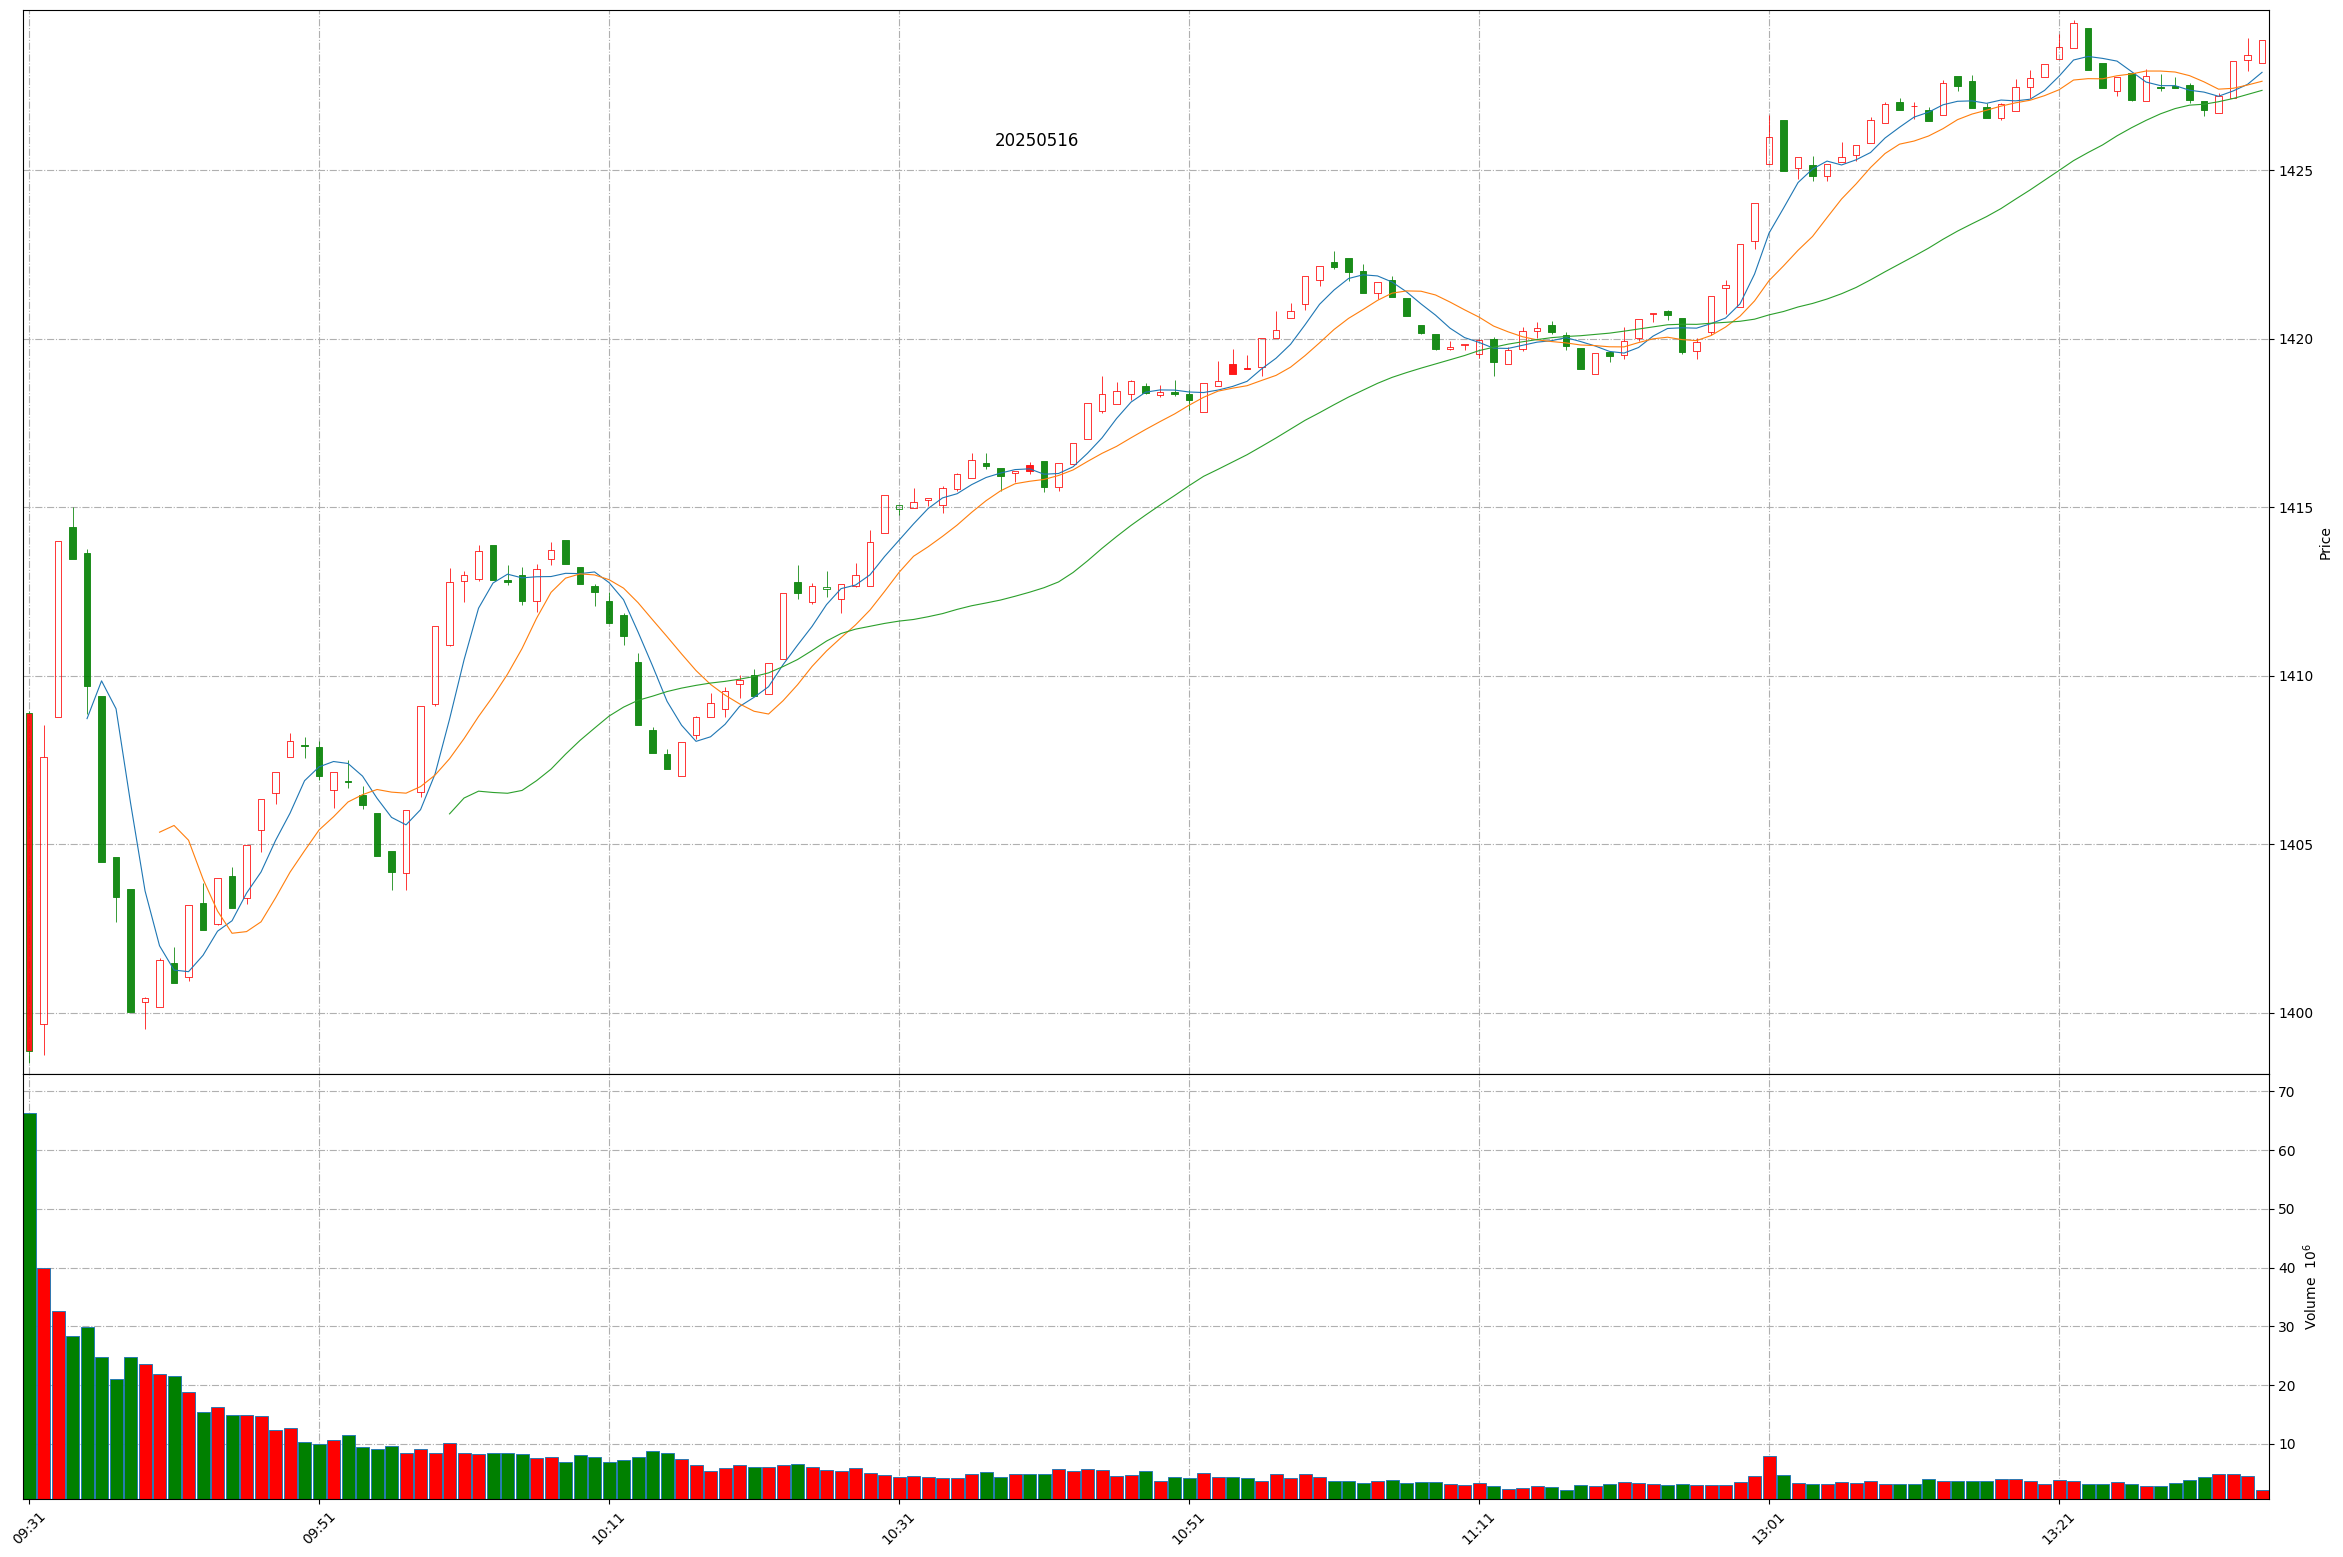
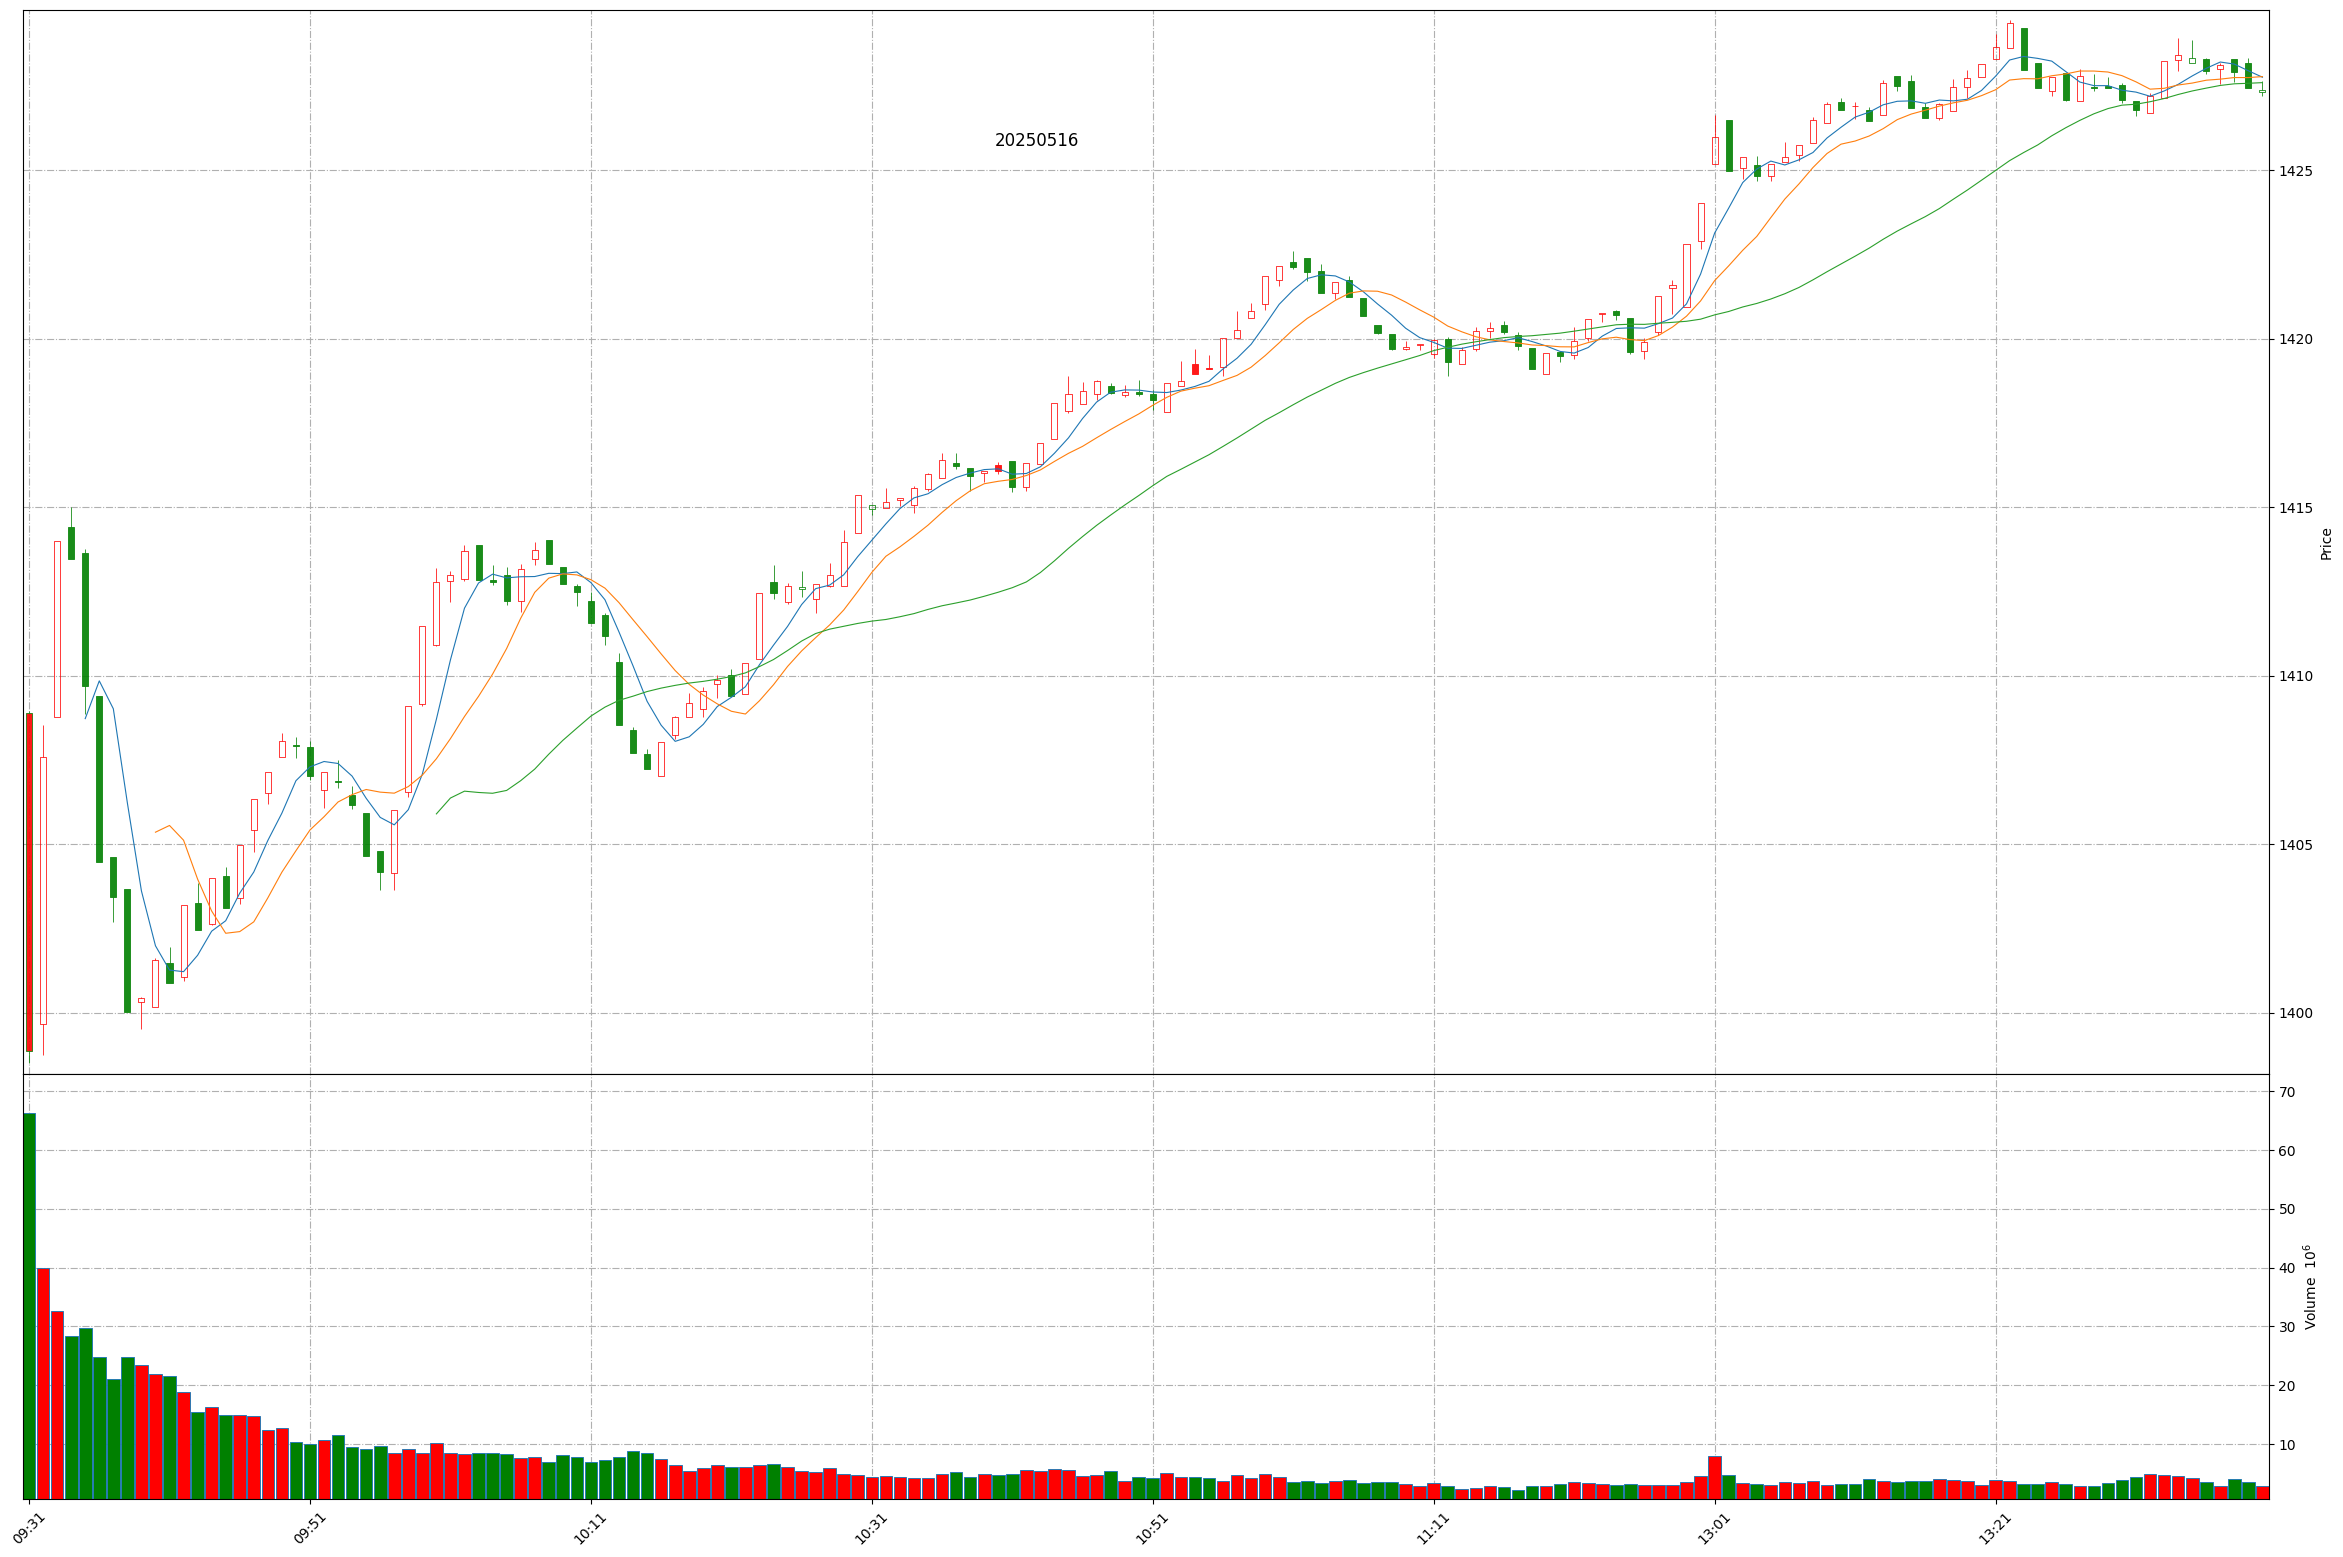
Github action update at 2025-05-16 13:40:10.

diff --git a/README.md b/README.md
@@ -1,11 +1,11 @@
 
 # Daily-A-share-market-quotes 每日 A 股指数（5min 更新）- 20250516
 
-### 上证指数 20250516 13:34
+### 上证指数 20250516 13:40
 ![](./fig/2025/5/20250516-sh000001.png)
 
-### 深证成指 20250516 13:34
+### 深证成指 20250516 13:40
 ![](./fig/2025/5/20250516-sz399001.png)
 
-### 北证50 20250516 13:34
+### 北证50 20250516 13:40
 ![](./fig/2025/5/20250516-bj899050.png)
